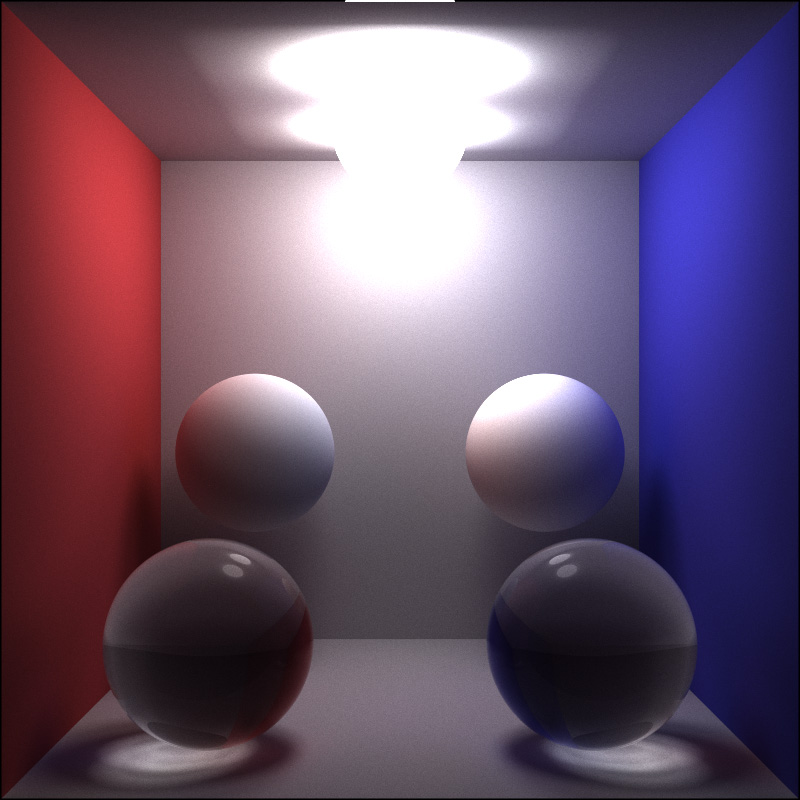
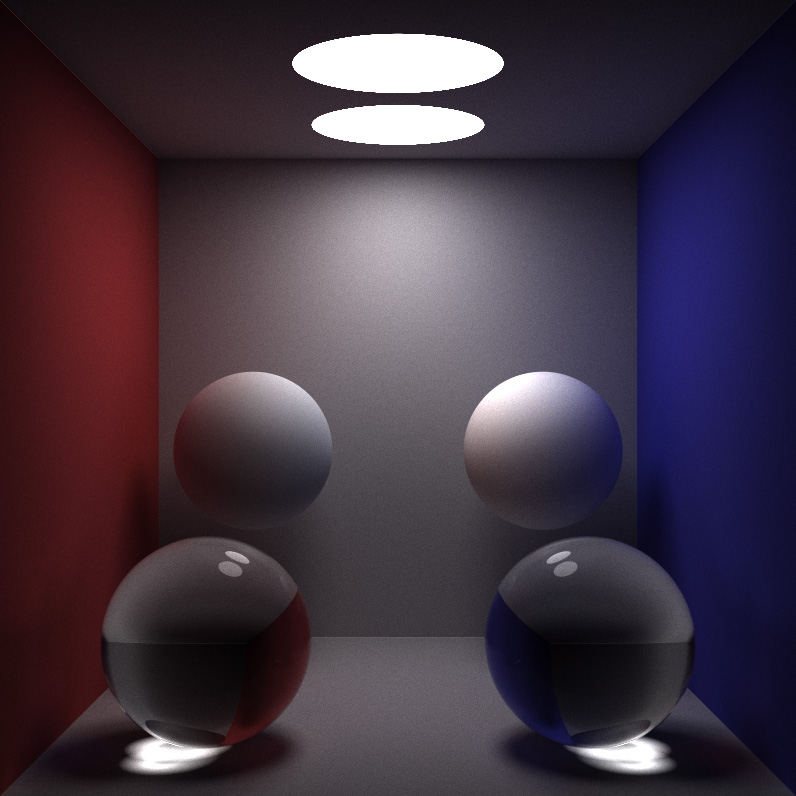
new images with circular lights

diff --git a/src/Sphere.cpp b/src/Sphere.cpp
@@ -18,13 +18,13 @@ Sphere::~Sphere() {
 }
 
 bool Sphere::Intersect(const Ray &ray, float &hitDist) {
-    // Vector from camera to center of sphere
+    // Vector from ray origin to center of sphere
     glm::vec3 l = position - ray.origin;
 
     // Dist to position in the middle of the two intersection points of the sphere
     float tmiddle = glm::dot(l, ray.direction);
-    //if (tmiddle < 0)
-    //	return false;
+    if (tmiddle < 0)
+		return false;
 
     // (Dist from center of the sphere to the position in the middle of the two intersection points)^2
     float d2 = glm::dot(l, l) - tmiddle * tmiddle;
@@ -35,14 +35,16 @@ bool Sphere::Intersect(const Ray &ray, float &hitDist) {
 
     float t = sqrt(r2 - d2); 
     // Distance to first intersection point
-    hitDist = tmiddle - t; 
-    // Distance to second intersection point
-    // hitDist2 = tca + thc; 
-	if(hitDist < 0) {
-		hitDist += abs(tmiddle*2.0f);
-	}
+    hitDist = tmiddle - t;
+	if (hitDist > 0.0001f)
+		return true;
+	
+	// If inside the sphere. Get the second intersection point
+	hitDist = tmiddle + t;
+	if (hitDist > 0.0001f)
+		return true;
 
-    return true; 
+	return false;
 }
 
 glm::vec3 Sphere::GetColor(glm::vec3 &pos) {
